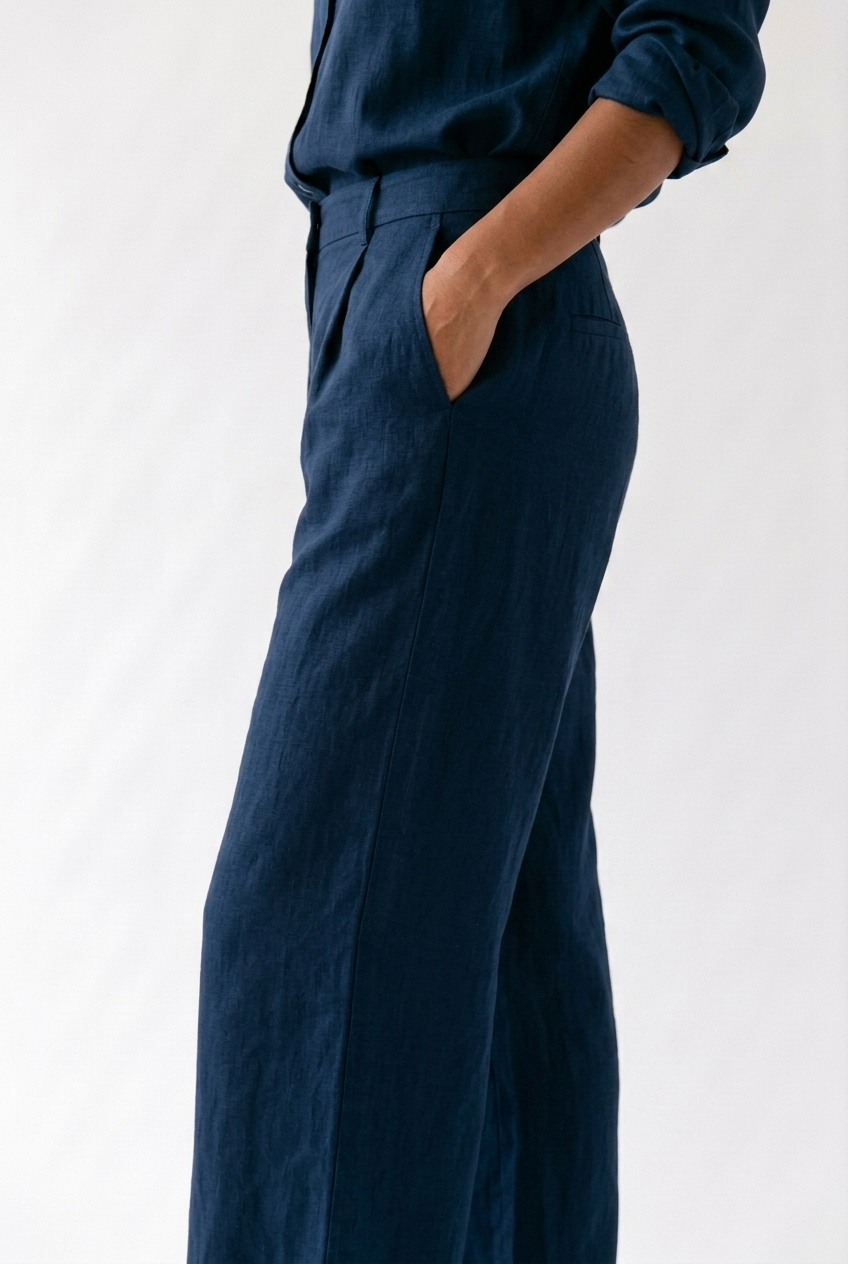
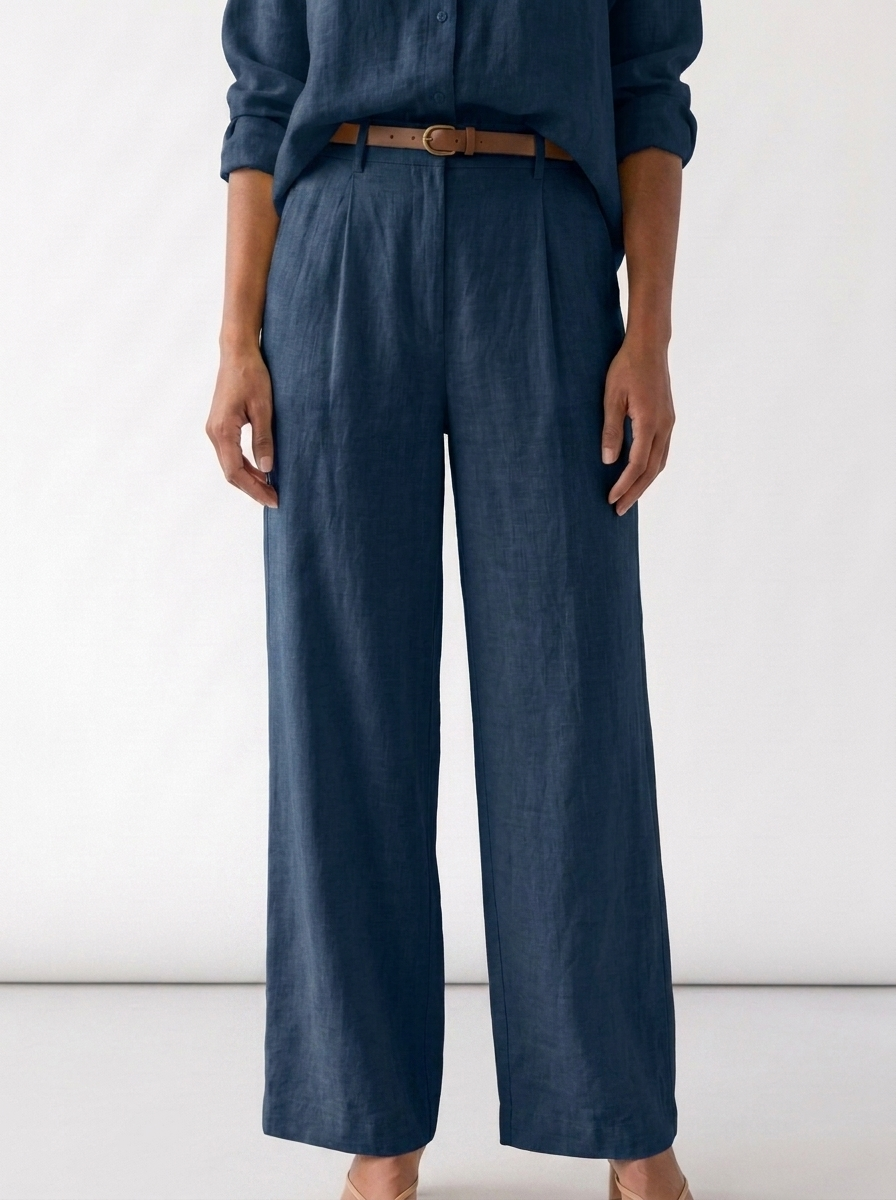
Fix catalog photo consistency across colours and combos
Wrap Top backs: replace all 8 (4 colours x short/long sleeves) with a
single approved master. Previously each was generated independently, so
framing, hem length and the waist sash all differed between colours and
between front and back. They are now one standing back view -- plain
back, no tie, both hands in frame -- derived from that one image, so hem
length is identical by construction.

Utility Shirt: add the missing sleeve/length combos for all four colours.

Wide-leg and Banded Trousers: add leg-width x length combos for the Navy
and Ivory masters. Also re-frame the Navy wide-leg front, which was shot
as a tight side crop that cut off the ankle and so could not show length.

Oversized Shirt: Navy short:longer front had a pocket slit that the
design does not have, and was shorter than the other colours; rebuilt
from the Ivory photo so pose and length match.

Colour handling: garment recolouring is done by measuring each photo's
actual garment hue and shifting it onto a shared target, rather than
regenerating the image. Two guards matter -- a lightness ceiling, and a
skin-band exclusion, because a garment near 353 deg has a hue window that
wraps past 360 into skin tones and tints faces and hands.

diff --git a/website/src/data/catalog.ts b/website/src/data/catalog.ts
@@ -99,6 +99,21 @@ export const catalog: CatalogItem[] = [
       Navy: { front: "/catalog/wide-leg-trousers-navy-front.png", back: "/catalog/wide-leg-trousers-navy-back.png" },
       Burgundy: { front: "/catalog/wide-leg-trousers-burgundy-front.png", back: "/catalog/wide-leg-trousers-burgundy-back.png" },
     },
+    // "wide:full" isn't generated -- it's identical to colorImages above.
+    // Navy and Ivory are the generated masters; Burgundy/White are derived
+    // from them by recolour and not wired up yet.
+    comboImages: {
+      Ivory: {
+        "normal:cropped": { front: "/catalog/wide-leg-trousers-ivory-combo-normal-cropped-front.png", back: "/catalog/wide-leg-trousers-ivory-combo-normal-cropped-back.png" },
+        "normal:full": { front: "/catalog/wide-leg-trousers-ivory-combo-normal-full-front.png", back: "/catalog/wide-leg-trousers-ivory-combo-normal-full-back.png" },
+        "wide:cropped": { front: "/catalog/wide-leg-trousers-ivory-combo-wide-cropped-front.png", back: "/catalog/wide-leg-trousers-ivory-combo-wide-cropped-back.png" },
+      },
+      Navy: {
+        "normal:cropped": { front: "/catalog/wide-leg-trousers-navy-combo-normal-cropped-front.png", back: "/catalog/wide-leg-trousers-navy-combo-normal-cropped-back.png" },
+        "normal:full": { front: "/catalog/wide-leg-trousers-navy-combo-normal-full-front.png", back: "/catalog/wide-leg-trousers-navy-combo-normal-full-back.png" },
+        "wide:cropped": { front: "/catalog/wide-leg-trousers-navy-combo-wide-cropped-front.png", back: "/catalog/wide-leg-trousers-navy-combo-wide-cropped-back.png" },
+      },
+    },
   },
   {
     slug: "structured-blouse",
@@ -156,6 +171,19 @@ export const catalog: CatalogItem[] = [
       White: { front: "/catalog/banded-trousers-white-front.png", back: "/catalog/banded-trousers-white-back.png" },
       Navy: { front: "/catalog/banded-trousers-navy-front.png", back: "/catalog/banded-trousers-navy-back.png" },
       Burgundy: { front: "/catalog/banded-trousers-burgundy-front.png", back: "/catalog/banded-trousers-burgundy-back.png" },
+    },
+    // "wide:full" isn't generated -- it's identical to colorImages above.
+    comboImages: {
+      Ivory: {
+        "normal:cropped": { front: "/catalog/banded-trousers-ivory-combo-normal-cropped-front.png", back: "/catalog/banded-trousers-ivory-combo-normal-cropped-back.png" },
+        "normal:full": { front: "/catalog/banded-trousers-ivory-combo-normal-full-front.png", back: "/catalog/banded-trousers-ivory-combo-normal-full-back.png" },
+        "wide:cropped": { front: "/catalog/banded-trousers-ivory-combo-wide-cropped-front.png", back: "/catalog/banded-trousers-ivory-combo-wide-cropped-back.png" },
+      },
+      Navy: {
+        "normal:cropped": { front: "/catalog/banded-trousers-navy-combo-normal-cropped-front.png", back: "/catalog/banded-trousers-navy-combo-normal-cropped-back.png" },
+        "normal:full": { front: "/catalog/banded-trousers-navy-combo-normal-full-front.png", back: "/catalog/banded-trousers-navy-combo-normal-full-back.png" },
+        "wide:cropped": { front: "/catalog/banded-trousers-navy-combo-wide-cropped-front.png", back: "/catalog/banded-trousers-navy-combo-wide-cropped-back.png" },
+      },
     },
   },
   {
@@ -250,6 +278,31 @@ export const catalog: CatalogItem[] = [
       White: { front: "/catalog/utility-shirt-white-front-v3.png", back: "/catalog/utility-shirt-white-back-v3.png" },
       Navy: { front: "/catalog/utility-shirt-navy-front-v3.png", back: "/catalog/utility-shirt-navy-back-v4.png" },
       Burgundy: { front: "/catalog/utility-shirt-burgundy-front-v3.png", back: "/catalog/utility-shirt-burgundy-back-v3.png" },
+    },
+    // "short:normal" isn't generated -- it's identical to colorImages above
+    // (the existing photo's short sleeve + tie-waist length is the "short:normal"
+    // option for this item).
+    comboImages: {
+      Ivory: {
+        "long:normal": { front: "/catalog/utility-shirt-ivory-combo-long-normal-front.png", back: "/catalog/utility-shirt-ivory-combo-long-normal-back.png" },
+        "short:longer": { front: "/catalog/utility-shirt-ivory-combo-short-longer-front.png", back: "/catalog/utility-shirt-ivory-combo-short-longer-back.png" },
+        "long:longer": { front: "/catalog/utility-shirt-ivory-combo-long-longer-front.png", back: "/catalog/utility-shirt-ivory-combo-long-longer-back.png" },
+      },
+      White: {
+        "long:normal": { front: "/catalog/utility-shirt-white-combo-long-normal-front.png", back: "/catalog/utility-shirt-white-combo-long-normal-back.png" },
+        "short:longer": { front: "/catalog/utility-shirt-white-combo-short-longer-front.png", back: "/catalog/utility-shirt-white-combo-short-longer-back.png" },
+        "long:longer": { front: "/catalog/utility-shirt-white-combo-long-longer-front.png", back: "/catalog/utility-shirt-white-combo-long-longer-back.png" },
+      },
+      Navy: {
+        "long:normal": { front: "/catalog/utility-shirt-navy-combo-long-normal-front.png", back: "/catalog/utility-shirt-navy-combo-long-normal-back.png" },
+        "short:longer": { front: "/catalog/utility-shirt-navy-combo-short-longer-front.png", back: "/catalog/utility-shirt-navy-combo-short-longer-back.png" },
+        "long:longer": { front: "/catalog/utility-shirt-navy-combo-long-longer-front.png", back: "/catalog/utility-shirt-navy-combo-long-longer-back.png" },
+      },
+      Burgundy: {
+        "long:normal": { front: "/catalog/utility-shirt-burgundy-combo-long-normal-front.png", back: "/catalog/utility-shirt-burgundy-combo-long-normal-back.png" },
+        "short:longer": { front: "/catalog/utility-shirt-burgundy-combo-short-longer-front.png", back: "/catalog/utility-shirt-burgundy-combo-short-longer-back.png" },
+        "long:longer": { front: "/catalog/utility-shirt-burgundy-combo-long-longer-front.png", back: "/catalog/utility-shirt-burgundy-combo-long-longer-back.png" },
+      },
     },
   },
 ];
